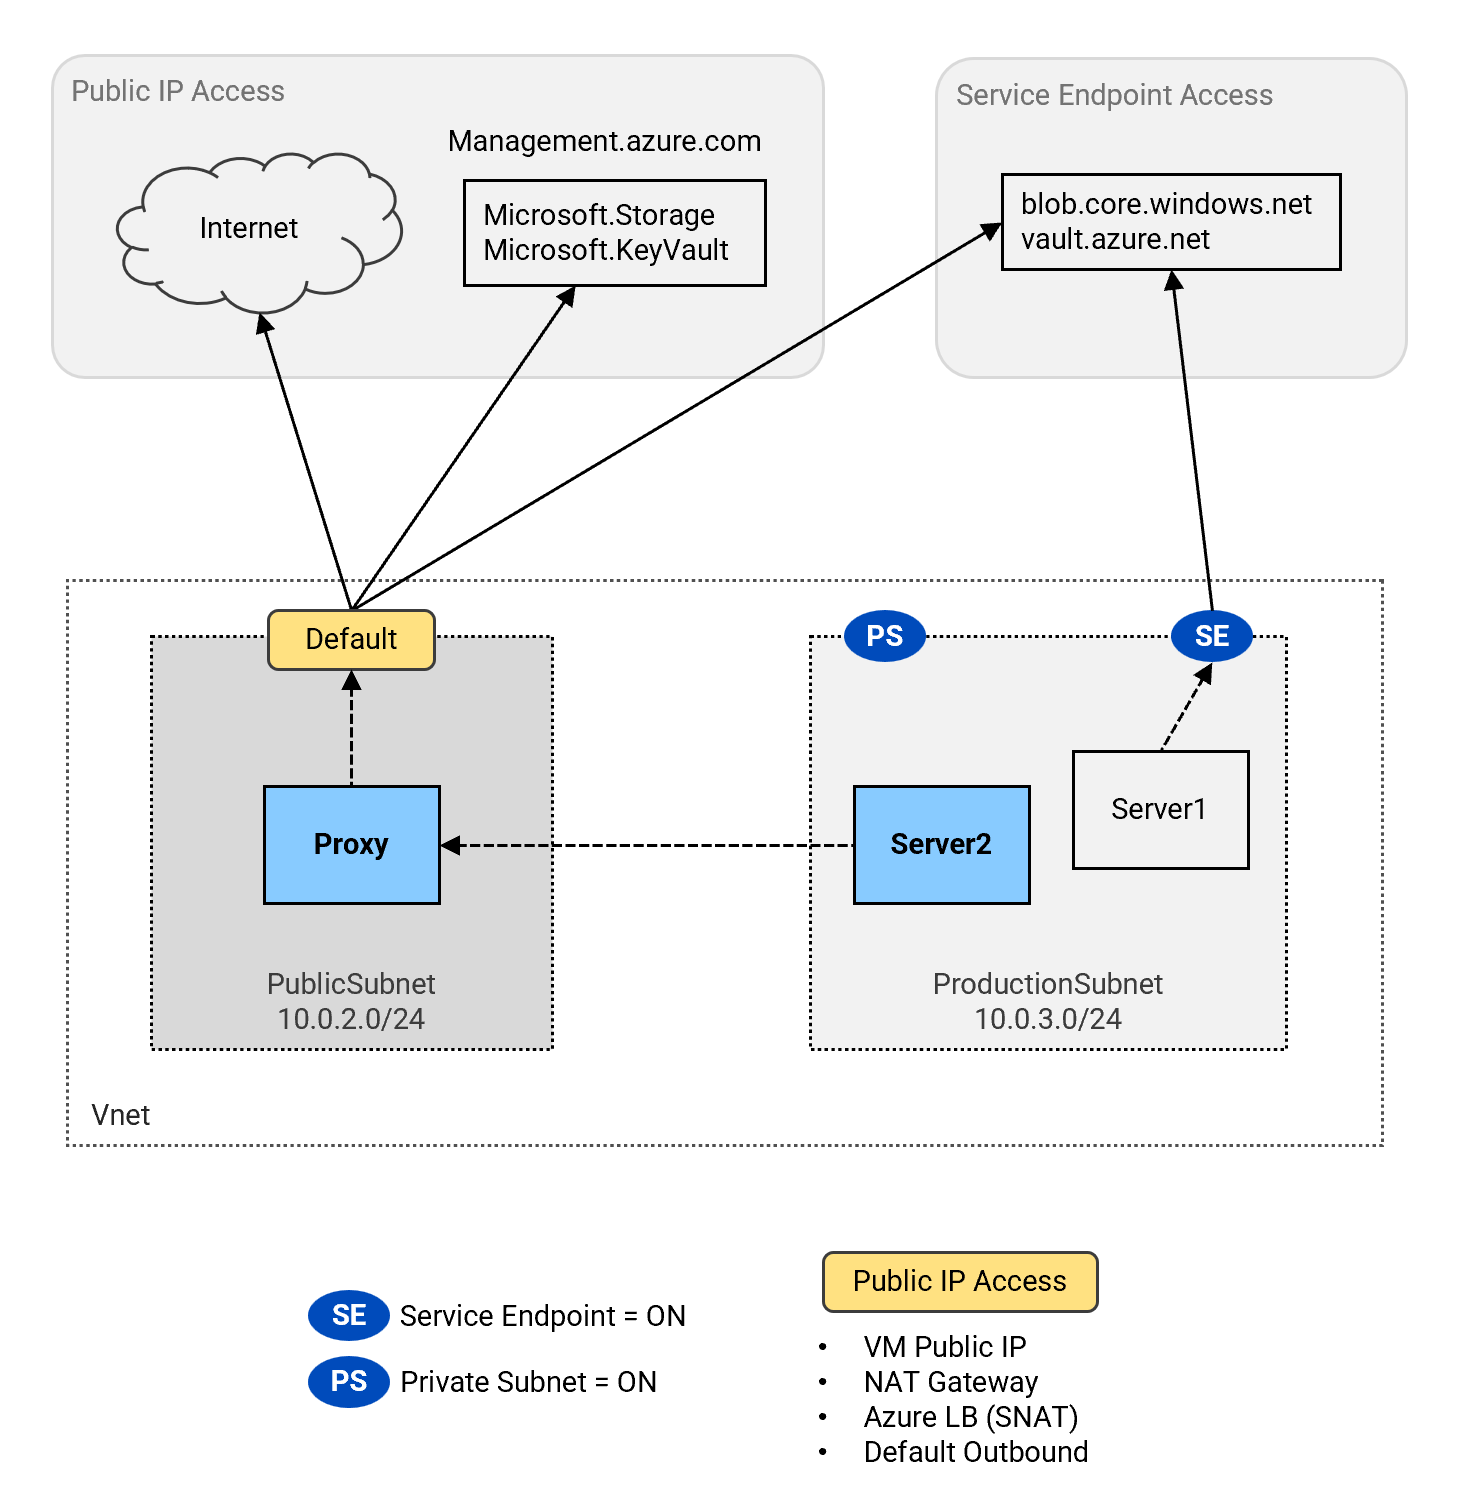
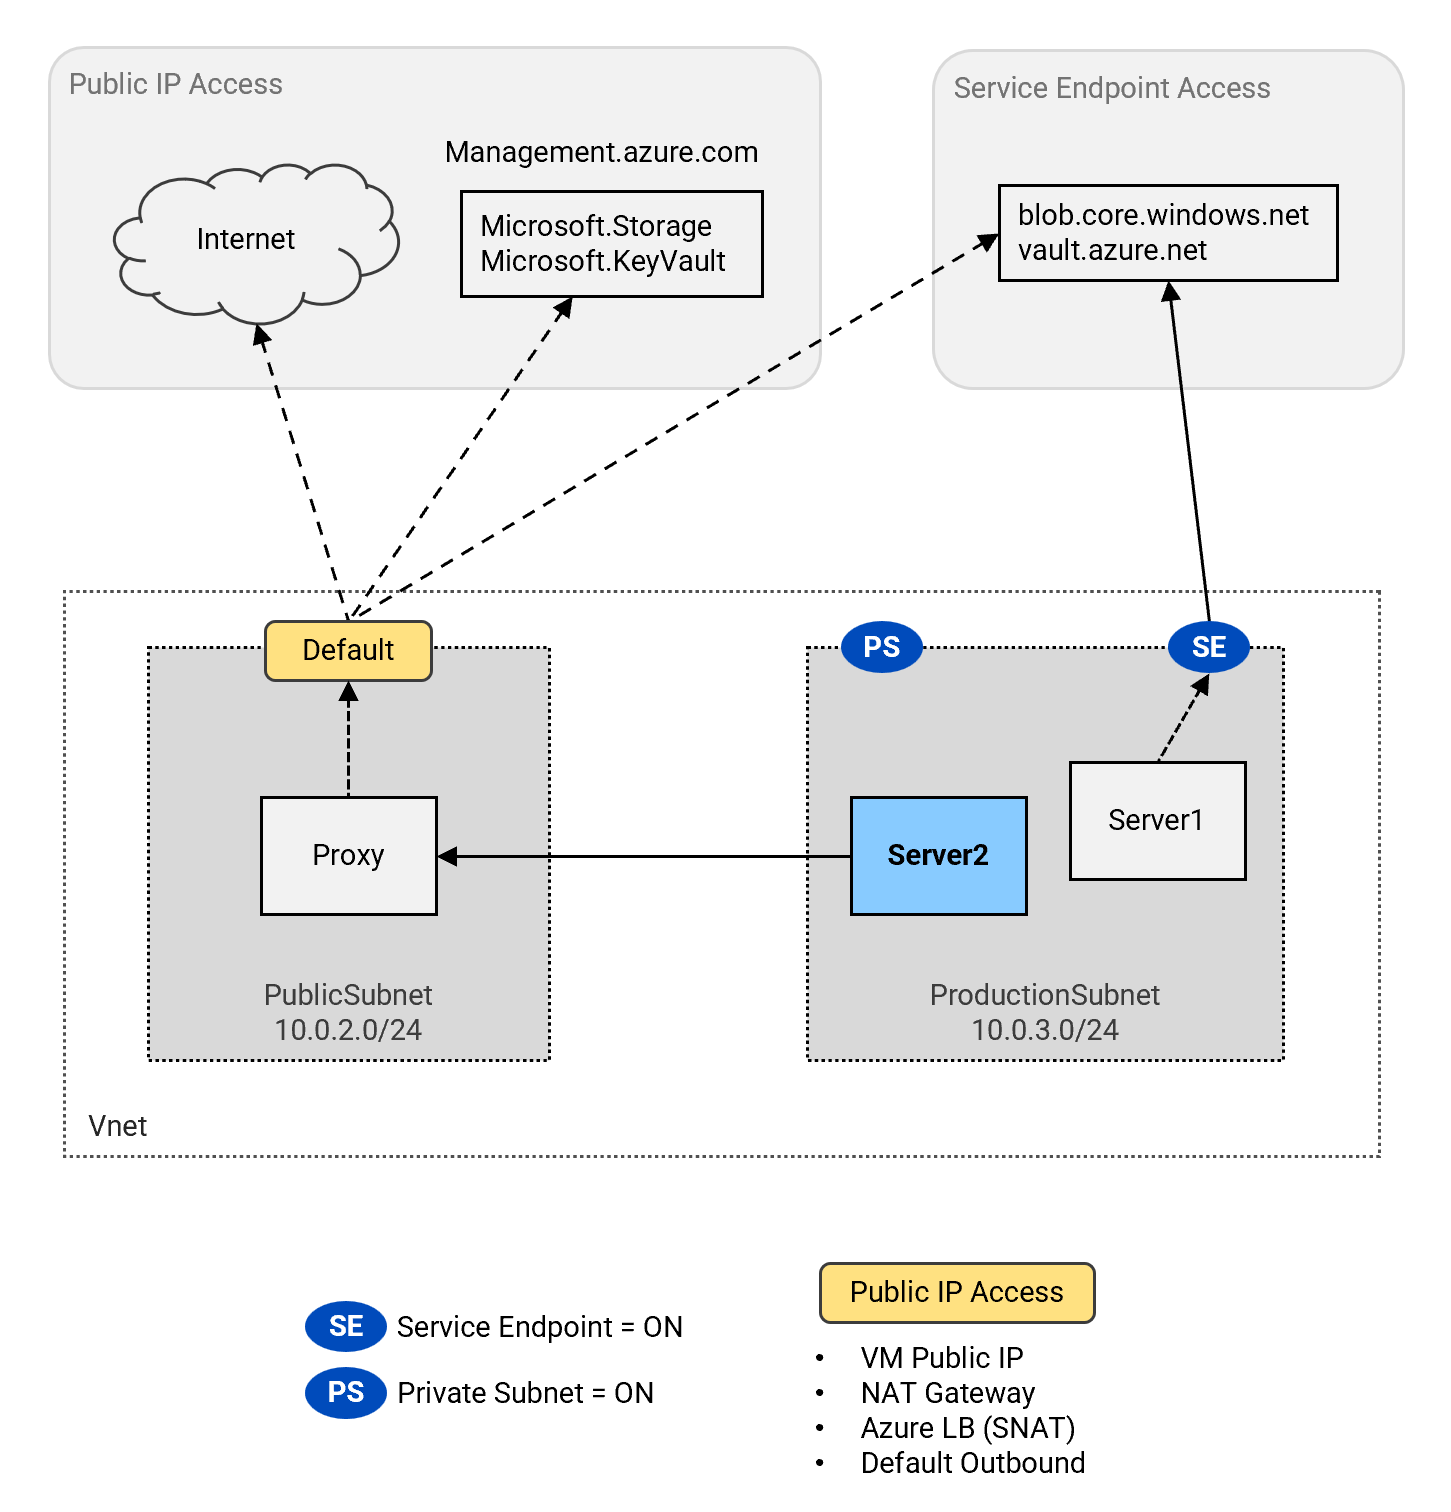
upgrade

diff --git a/4-general/10-network-egress-scenarios/README.md b/4-general/10-network-egress-scenarios/README.md
@@ -16,7 +16,6 @@ Contents
   - [C. NAT-Gateway, Private-Subnet = On, Service-Endpoint = On](#c-nat-gateway-private-subnet--on-service-endpoint--on)
   - [D. No Public IP, Private-Subnet = On, Service-Endpoint = On](#d-no-public-ip-private-subnet--on-service-endpoint--on)
   - [E. Outbound Access via Proxy](#e-outbound-access-via-proxy)
-  - [F. No Explicit Public IP, Private-Subnet = Off, Service-Endpoint = Off](#f-no-explicit-public-ip-private-subnet--off-service-endpoint--off)
 - [Cleanup](#cleanup)
 
 ## Overview
@@ -90,7 +89,7 @@ From here, you can run the `crawlz` command to test service reachability to vari
    <td colspan="2" ><strong>Test Server</strong></td>
    <td colspan="3" ><strong>Configuration Setting</strong></td>
    <td rowspan="2" ><strong>Internet Access?</strong></td>
-   <td rowspan="2" ><strong>Mgmt Access?</strong></td>
+   <td rowspan="2" ><strong>Azure Mgmt Access?</strong></td>
    <td colspan="3" ><strong>Data Plane Access?</strong></td>
   </tr>
   <tr>
@@ -103,21 +102,25 @@ From here, you can run the `crawlz` command to test service reachability to vari
    <td><strong>Key Vault</strong></td>
   </tr>
   <tr>
-   <td>A</td><td>Proxy</td><td>Public</td><td></td><td></td><td></td><td>Yes</td><td>Yes</td><td>Yes</td><td>Yes</td>
+   <td>A</td><td>Proxy</td><td>Public</td><td></td><td></td><td></td><td>✅</td><td>✅</td><td>✅</td><td>✅</td>
   </tr>
   <tr>
-   <td>B</td><td>Server1</td><td>Production</td><td>✔</td><td>✔</td><td>✔</td><td>Yes</td><td>Yes</td><td>Yes</td><td>Yes</td>
+   <td>B</td><td>Server1</td><td>Production</td><td>✔</td><td>✔</td><td>✔</td><td>✅</td><td>✅</td><td>✅</td><td>✅</td>
   </tr>
   <tr>
-   <td>C</td><td>Server1</td><td>Production</td><td>✔</td><td>✔</td><td>✔</td><td>Yes</td><td>Yes</td><td>Yes</td><td>Yes</td>
+   <td>C</td><td>Server1</td><td>Production</td><td>✔</td><td>✔</td><td>✔</td><td>✅</td><td>✅</td><td>✅</td><td>✅</td>
   </tr>
   <tr>
-   <td>D</td><td>Server1</td><td>Production</td><td>✔</td><td>✔</td><td></td><td>No</td><td>No</td><td>Yes</td><td>Yes</td>
+   <td>D</td><td>Server1</td><td>Production</td><td>✔</td><td>✔</td><td></td><td>❌</td><td>❌</td><td>✅</td><td>✅</td>
   </tr>
   <tr>
-   <td>E</td><td>Proxy</td><td>Public<td></td></td><td></td><td></td><td>No</td><td>No</td><td>No</td><td>No</td>
+   <td>E</td><td>Proxy</td><td>Public<td></td></td><td></td><td></td><td>❌</td><td>❌</td><td>❌</td><td>❌</td>
   </tr>
 </table>
+
+* ✔ - Setting is configured
+* ✅ - Successful connectivity
+* ❌ - No connectivity
 
 ### A. Default Outbound, Private-Subnet = Off, Service-Endpoint = Off
 
@@ -162,11 +165,9 @@ Results
 
 <summary>Test instructions</summary>
 
-Private subnet is already enabled on `ProductionSubnet`. The subnet is also already associated with a NAT gateway.
-
 1\. Login to `G10-Proxy` VM as described in the [Test Servers](#accessing-the-test-servers) section.
 
-2\. Run the command `crawlz` to test network reachability.
+2\. Run the command `crawlz` to test service reachability.
 
 </details>
 <p>
@@ -315,7 +316,7 @@ Private subnet is already enabled on `ProductionSubnet`. The subnet is also alre
 
 1\. Login to `G10-Server1` VM as described in the [Test Servers](#accessing-the-test-servers) section.
 
-2\. Run the command `crawlz` to test network reachability.
+2\. Run the command `crawlz` to test service reachability.
 
 </details>
 <p>
@@ -626,7 +627,7 @@ az network vnet subnet update \
 
 3\. Login to `G10-Server1` VM as described in the [Test Servers](#test-servers) section.
 
-4\. Run the command `crawlz` to test network reachability.
+4\. Run the command `crawlz` to test service reachability.
 
 </details>
 <p>
@@ -729,86 +730,148 @@ Results
 
 ### E. Outbound Access via Proxy
 
-When private subnet is enabled on `ProductionSubnet` and there is no explicit outbound method deployed (NAT gateway, load balancer SNAT, or VM public IP), the VM `G10-Server1` cannot access public endpoints. But with [service endpoints](https://learn.microsoft.com/en-us/azure/virtual-network/virtual-network-service-endpoints-overview) enabled on `ProductionSubnet`, `G10-Server1` can access Azure services that are associated with the service endpoints - in this case, Azure Storage and Azure Key Vault. Service endpoints are accessed via management.azure.com for management operations on resources - listing, creating, updating, and deleting resources.
+In this scenario, we will use a proxy server, `G10-proxy` to route all outbound traffic from `G10-Server2` to the internet and to Azure services. The proxy server is deployed in the `PublicSubnet` and uses the default outbound access method.
 
+Access patterns for `G10-Server2`:
+- Internet access works through the proxy server
+- Azure management operations (management.azure.com) works through the proxy server
+- Data plane access to blob.core.windows.net and vault.azure.net works through the proxy server.
+
+<p>
 <img src="./images/egress-scenario-e.png" alt="Scenario E" width="700">
-
-**Test instructions:**
-
-1\. Enable service endpoints in the appropriate line in [02-main.tf](./02-main.tf#L9) file.
-
-```sh
-enable_service_endpoints = true
-```
-
-2\. Re-apply terraform to remove the subnet association with the NAT gateway.
-
-3\. Login to `G10-Server1` VM as described in the [Test Servers](#test-servers) section.
-
-4\. Run the command `crawlz` to test network reachability.
+<p>
 
 **Summary:**
 
 ```sh
-
+-------------------------------------
+Environment
+-------------------------------------
+VM Name:        G10-Server2
+Resource Group: G10_NetworkEgress_RG
+Location:       northeurope
+VNET Name:      G10-hub-vnet
+Subnet Name:    ProductionSubnet
+Private IP:     10.0.3.5
+-------------------------------------
+Results
+-------------------------------------
+1. NAT IP Type:         None
+2. Service Endpoints:   Enabled
+3. Private Subnet:      Enabled
+4. Internet Access:     Pass
+5. Management Access:   Pass
+6. Blob Dataplane:      Pass
+7. KeyVault Dataplane:  Pass
+-------------------------------------
 ```
 
-**Detailed Result:**
+<details>
+
+<summary>Test instructions</summary>
+
+1\. Login to `G10-Server2` VM as described in the [Test Servers](#accessing-the-test-servers) section.
+
+2\. Run the command `crawlz` to test service reachability.
+
+</details>
+<p>
 
 <details>
 
 <summary>Detailed Result</summary>
 
 ```sh
+azureuser@Server2:~$ crawlz
 
+Extracting az token...
+Downloading service tags JSON...
+
+-------------------------------------
+Environment
+-------------------------------------
+VM Name:        G10-Server2
+Resource Group: G10_NetworkEgress_RG
+Location:       northeurope
+VNET Name:      G10-hub-vnet
+Subnet Name:    ProductionSubnet
+Private IP:     10.0.3.5
+-------------------------------------
+
+1. Check Public Address Type
+   Local IP:    10.0.3.5
+   Public IP:   52.178.159.58
+   NAT_IP type: None
+
+2. Check Service Endpoints
+   Subnet --> ProductionSubnet
+   Service Endpoint: Enabled
+   - Microsoft.Storage
+   - Microsoft.KeyVault
+   - Microsoft.AzureActiveDirectory
+
+3. Check Private Subnet
+   Subnet --> ProductionSubnet
+   Private Subnet:  Enabled
+
+4. Check Internet Access
+   curl https://ifconfig.me
+   Internet Access: Pass (200)
+
+5. Management (Control Plane)
+   url = https://management.azure.com/subscriptions?api-version=2020-01-01
+   host = management.azure.com
+   52.146.135.86 <-- management.azure.com
+   Searching for service tags matching IP (52.146.135.86)
+   - 52.146.134.0/23 <-- AzureResourceManager ()
+   - 52.146.134.0/23 <-- AzureResourceManager.NorthEurope (northeurope)
+   - 52.146.128.0/17 <-- AzureCloud.northeurope (northeurope)
+   - 52.146.128.0/17 <-- AzureCloud ()
+   curl -H Authorization : Bearer TOKEN https://management.azure.com/subscriptions?api-version=2020-01-01
+   Management Access: Pass (200)
+
+6. Blob (Data Plane)
+   url = https://g10huba221.blob.core.windows.net/storage/storage.txt
+   host = g10huba221.blob.core.windows.net
+   20.150.84.196 <-- g10huba221.blob.core.windows.net
+   Searching for service tags matching IP (20.150.84.196)
+   - 20.150.0.0/17 <-- Storage ()
+   - 20.150.84.0/24 <-- Storage.NorthEurope (northeurope)
+   - 20.150.84.0/24 <-- AzureCloud.northeurope (northeurope)
+   - 20.150.84.0/24 <-- AzureCloud ()
+   az storage account keys list -g G10_NetworkEgress_RG --account-name g10huba221
+   az storage blob download --account-name g10huba221 -c storage -n storage.txt --account-key <KEY>
+   Content: Hello, World!
+   Blob Dataplane: Pass
+
+7. KeyVault (Data Plane)
+   url: https://g10-hub-kva221.vault.azure.net/secrets/message
+   host: g10-hub-kva221.vault.azure.net
+   52.146.137.168 <-- g10-hub-kva221.vault.azure.net
+   Searching for service tags matching IP (52.146.137.168)
+   - 52.146.137.168/29 <-- AzureKeyVault ()
+   - 52.146.137.168/29 <-- AzureKeyVault.NorthEurope (northeurope)
+   - 52.146.128.0/17 <-- AzureCloud.northeurope (northeurope)
+   - 52.146.128.0/17 <-- AzureCloud ()
+   az keyvault secret show --vault-name g10-hub-kva221 --name message
+   message: Hello, World!
+   Vault Dataplane: Pass
+
+-------------------------------------
+Results
+-------------------------------------
+1. NAT IP Type:         None
+2. Service Endpoints:   Enabled
+3. Private Subnet:      Enabled
+4. Internet Access:     Pass
+5. Management Access:   Pass
+6. Blob Dataplane:      Pass
+7. KeyVault Dataplane:  Pass
+-------------------------------------
 ```
 
 </details>
 <p>
-
-<img src="./images/egress-scenario-d.png" alt="Scenario D" width="700">
-
-
-### F. No Explicit Public IP, Private-Subnet = Off, Service-Endpoint = Off
-
-TBC
-
-<img src="./images/egress-scenario-f.png" alt="Scenario F" width="700">
-
-**Test instructions:**
-
-1\. Enable service endpoints in the appropriate line in [02-main.tf](./02-main.tf#L9) file.
-
-```sh
-enable_service_endpoints = true
-```
-
-2\. Re-apply terraform to remove the subnet association with the NAT gateway.
-
-3\. Login to `G10-Server1` VM as described in the [Test Servers](#test-servers) section.
-
-4\. Run the command `crawlz` to test network reachability.
-
-**Summary:**
-
-```sh
-
-```
-
-**Detailed Result:**
-
-<details>
-
-<summary>Detailed Result</summary>
-
-```sh
-
-```
-
-</details>
-<p>
-
-<img src="./images/egress-scenario-d.png" alt="Scenario D" width="700">
 
 ## Cleanup
 
